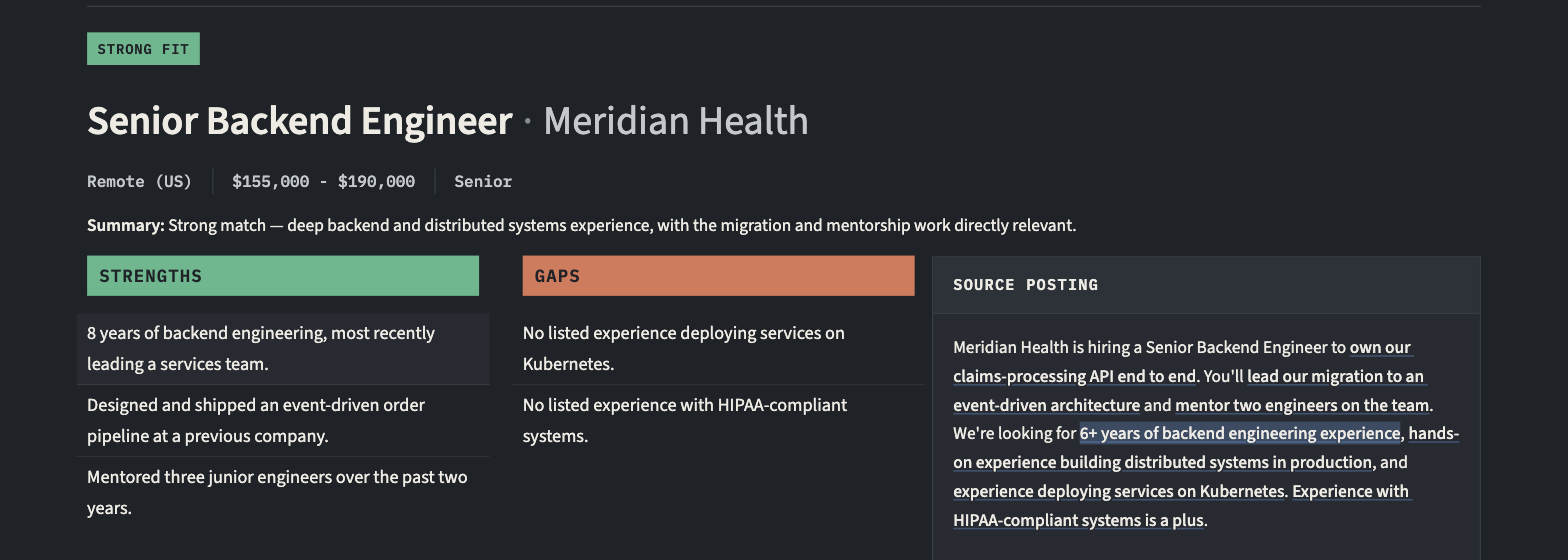
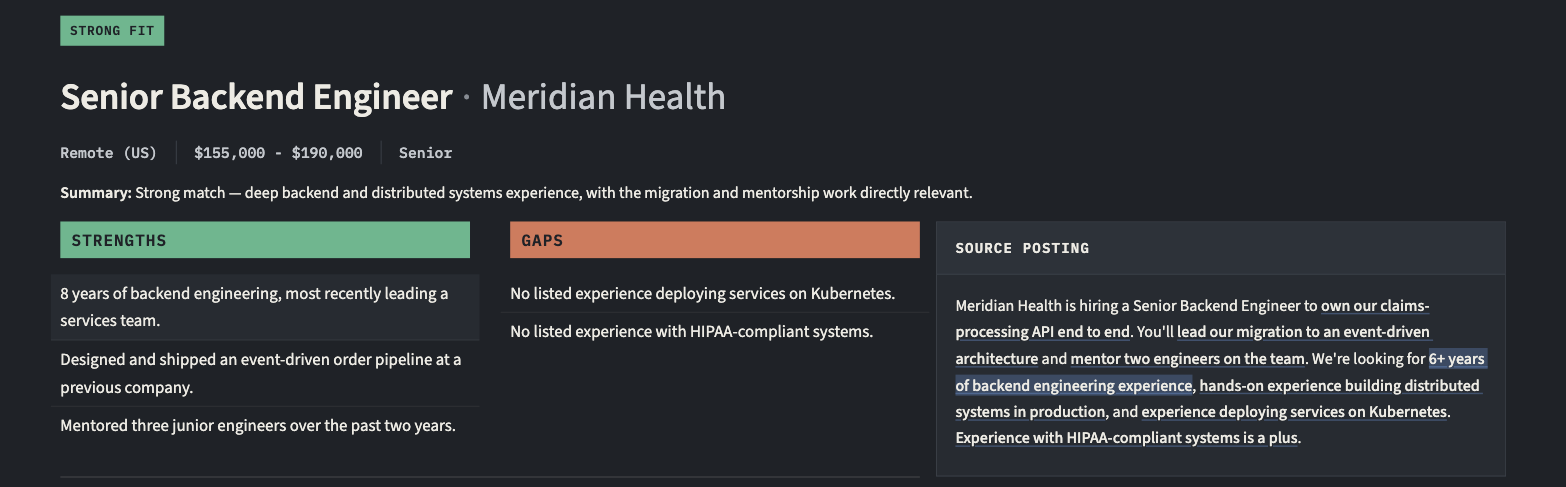
Give README screenshots real margin and add an expanded-gap shot
Previous crops sliced through divider lines at the edges instead of
leaving clean whitespace. Also adds a second recurring-gaps screenshot
showing a pattern expanded with its per-posting source quotes.

diff --git a/README.md b/README.md
@@ -12,7 +12,11 @@ If you'd rather not paste your own resume in, there's a "See a sample analysis" 
 
 ![The recurring gaps panel, listing three gaps and how many of the five analyzed postings each one shows up in](docs/images/recurring-gaps.png)
 
-This is the feature that's actually hard to get out of a chat window. Paste in five postings at once and JobScan looks across all of them for gaps that keep showing up, not just what's wrong with each one individually. A chat only ever sees one job posting at a time, so it can't tell you that the Kubernetes gap you keep hitting is the thing actually worth fixing before your next ten applications. Each recurring gap expands to show what every affected posting specifically asked for, in that posting's own words, so you can check the pattern is real rather than just take the tool's word for it.
+This is the feature that's actually hard to get out of a chat window. Paste in five postings at once and JobScan looks across all of them for gaps that keep showing up, not just what's wrong with each one individually. A chat only ever sees one job posting at a time, so it can't tell you that the Kubernetes gap you keep hitting is the thing actually worth fixing before your next ten applications.
+
+Click a gap and it expands to show what every affected posting specifically asked for, in that posting's own words, so you can check the pattern is real instead of taking the tool's word for it.
+
+![One gap expanded, showing the exact line each of four postings used to ask for it](docs/images/recurring-gaps-expanded.png)
 
 ## Traceable citations
 
